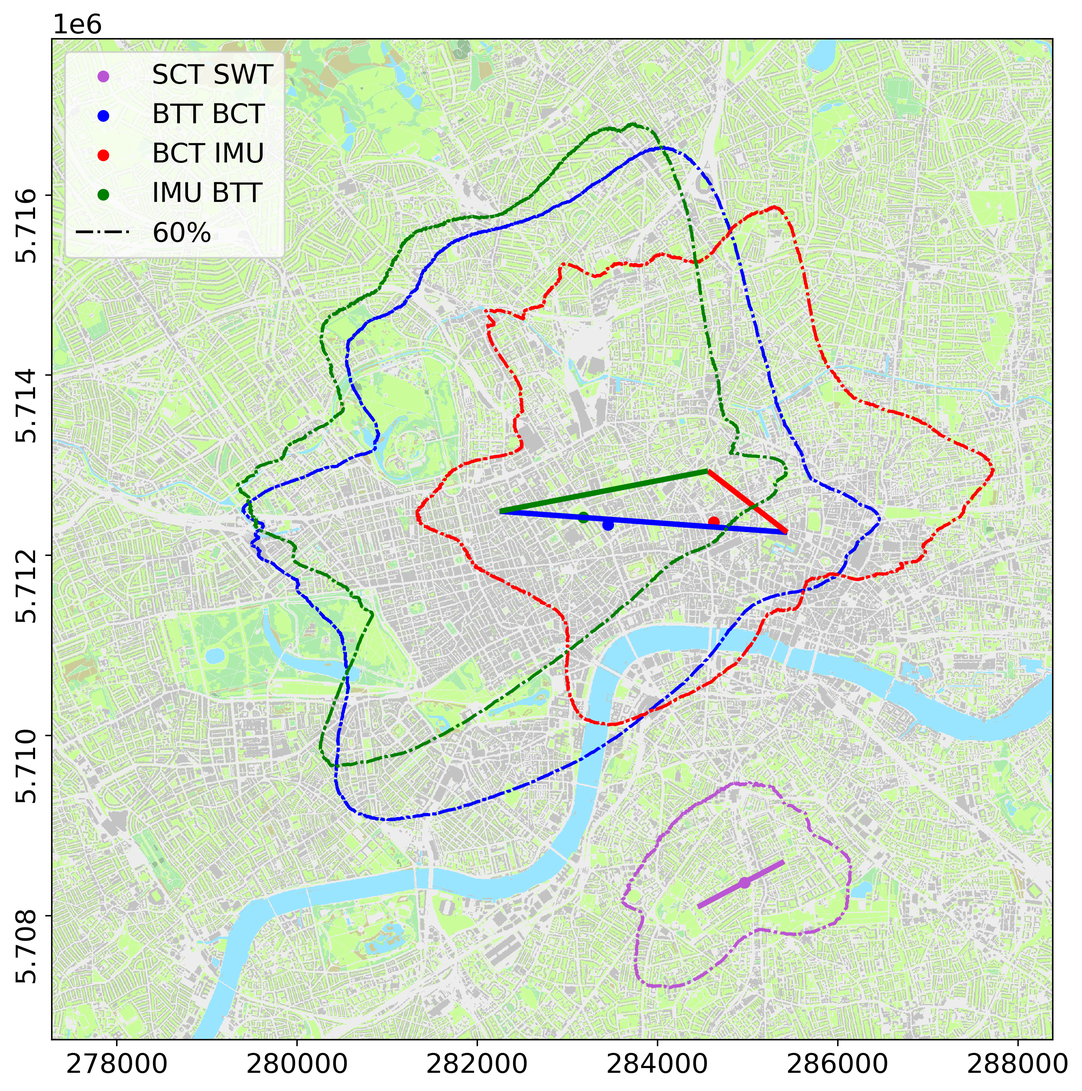
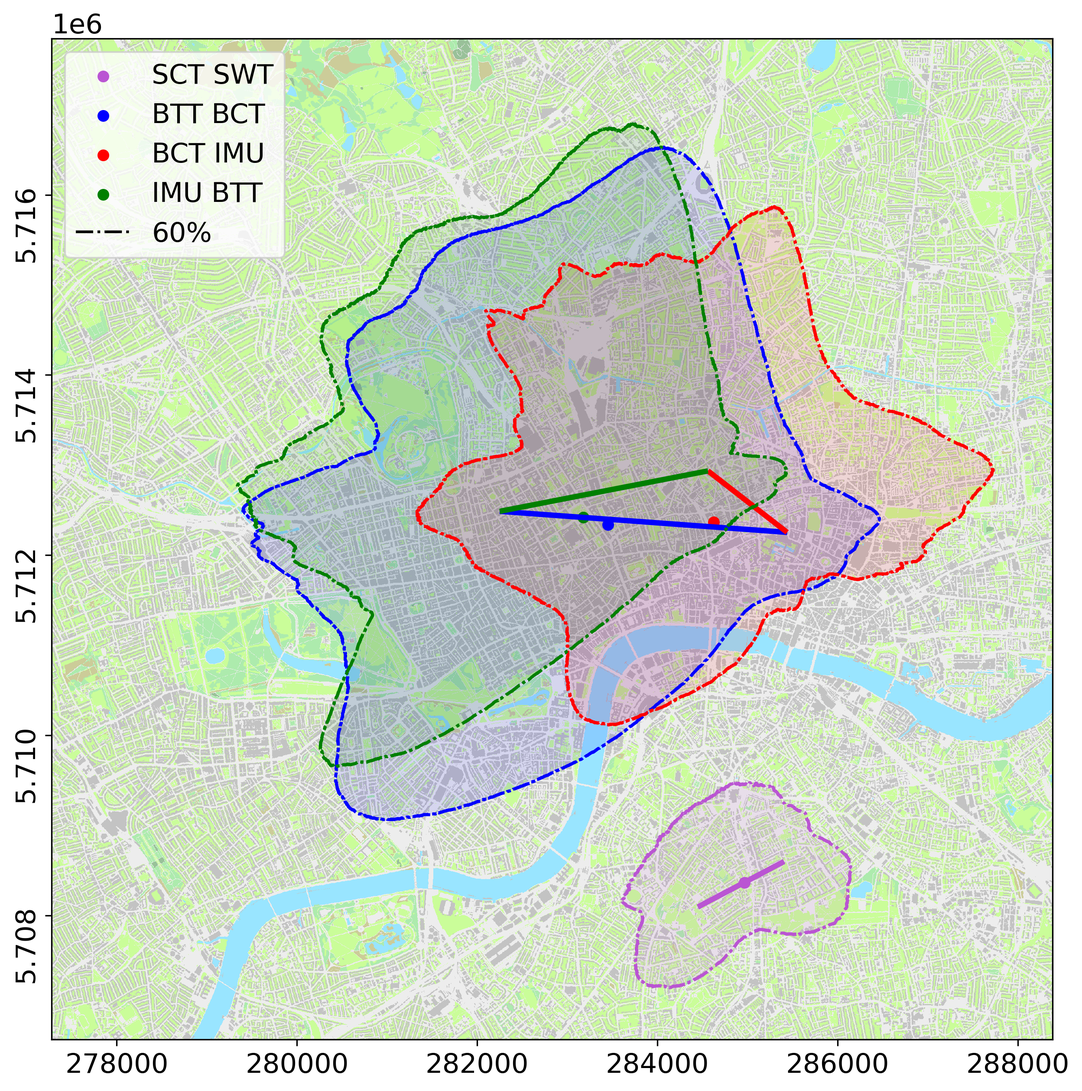
shade area

Changed region(s): [[0.2187, 0.1239, 0.9059, 0.7434]]

diff --git a/scint_fp/functions/combine_rasters/sa_lines_combine_raster.py b/scint_fp/functions/combine_rasters/sa_lines_combine_raster.py
@@ -116,6 +116,18 @@ def plot_sa_lines_combined_raster(file_list,
             if weight == '60':
                 ax.scatter(max_coords[0], max_coords[1], color=colour_here, marker='o', s=30, label=line_label)
 
+                # plot a solid colour in the 60 extent
+                shade_array = bool_arr.copy()
+                shade_array[shade_array == 0] = np.nan
+
+                # faff with custom cmap for just 1 colour
+                vmax = 3.0
+                cmap_path = LinearSegmentedColormap.from_list('mycmap', [(0 / vmax, 'white'),
+                                                                         (1 / vmax, colour_here),
+                                                                         (3 / vmax, 'white')])
+                rasterio.plot.show(shade_array, transform=raster.transform, ax=ax, cmap=cmap_path, vmin=0, vmax=vmax,
+                                   alpha=0.1)
+
     handles, labels = ax.get_legend_handles_labels()
 
     line_60 = mlines.Line2D([], [], color='k', linestyle=linestyle_dict['60'], label='60%')
